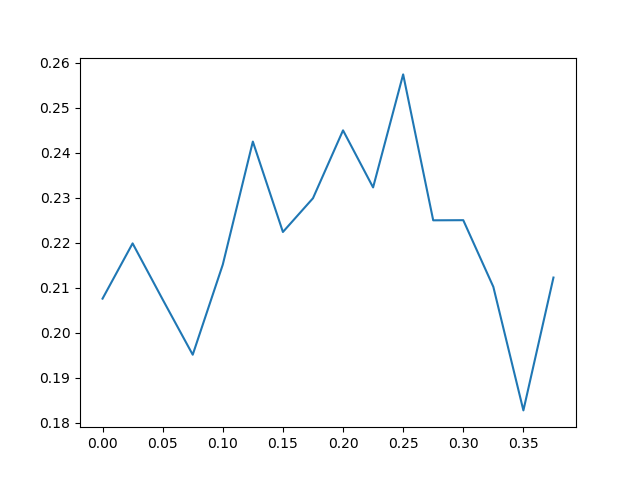
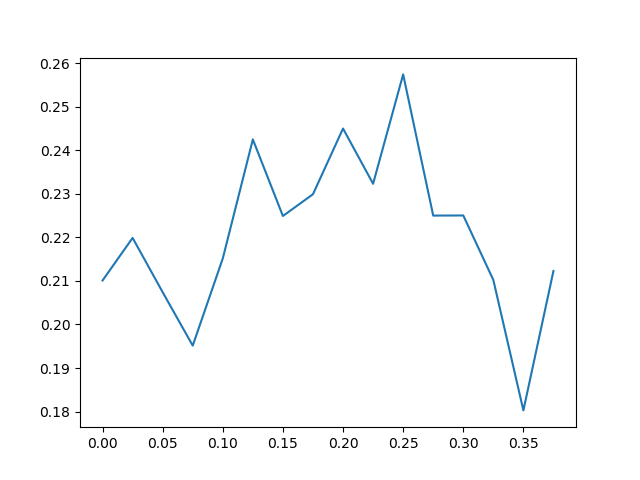
added averaged figure

diff --git a/code/main_analysis.py b/code/main_analysis.py
@@ -21,7 +21,7 @@ aligned_dir = {
     "KA": "KA-aligned",
     "MF": "MF-aligned",
     "MK":  "MK-aligned",
-    "NNo": "NNo-aligned",
+    "NNo": "NNo-4",
     "KO": "KO-aligned",
     "HHy": "HHy-aligned",
     "HO": "HO-aligned",
